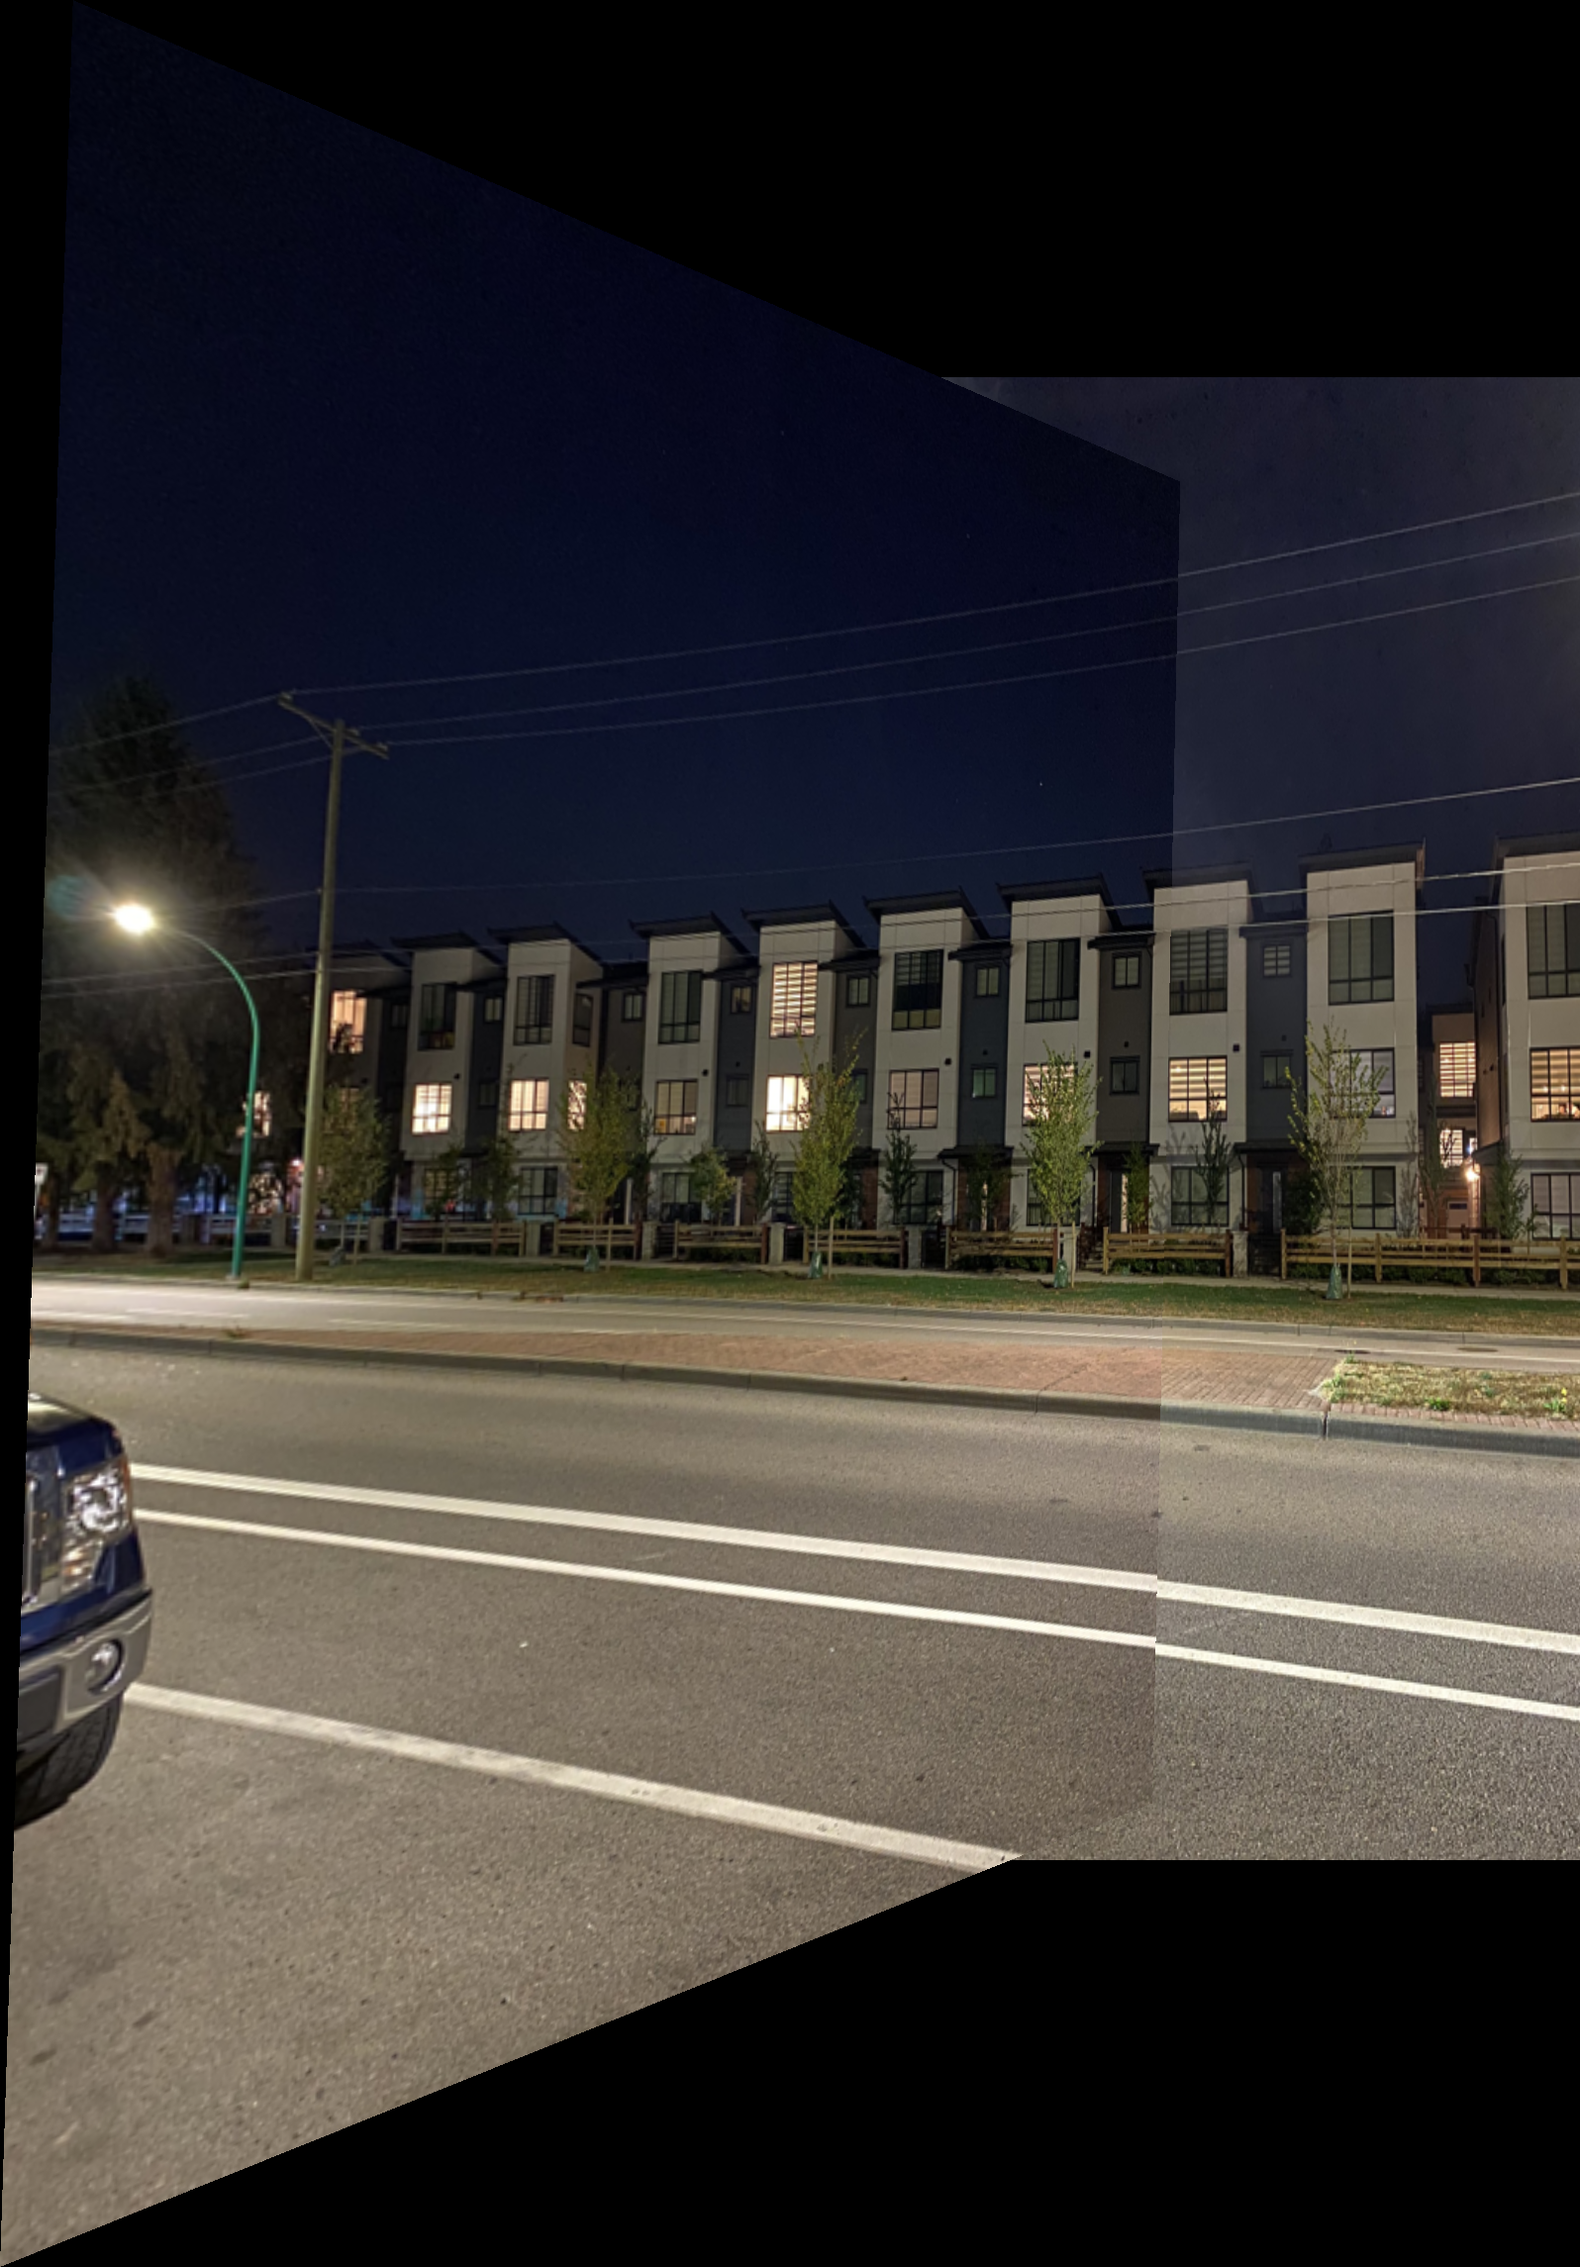
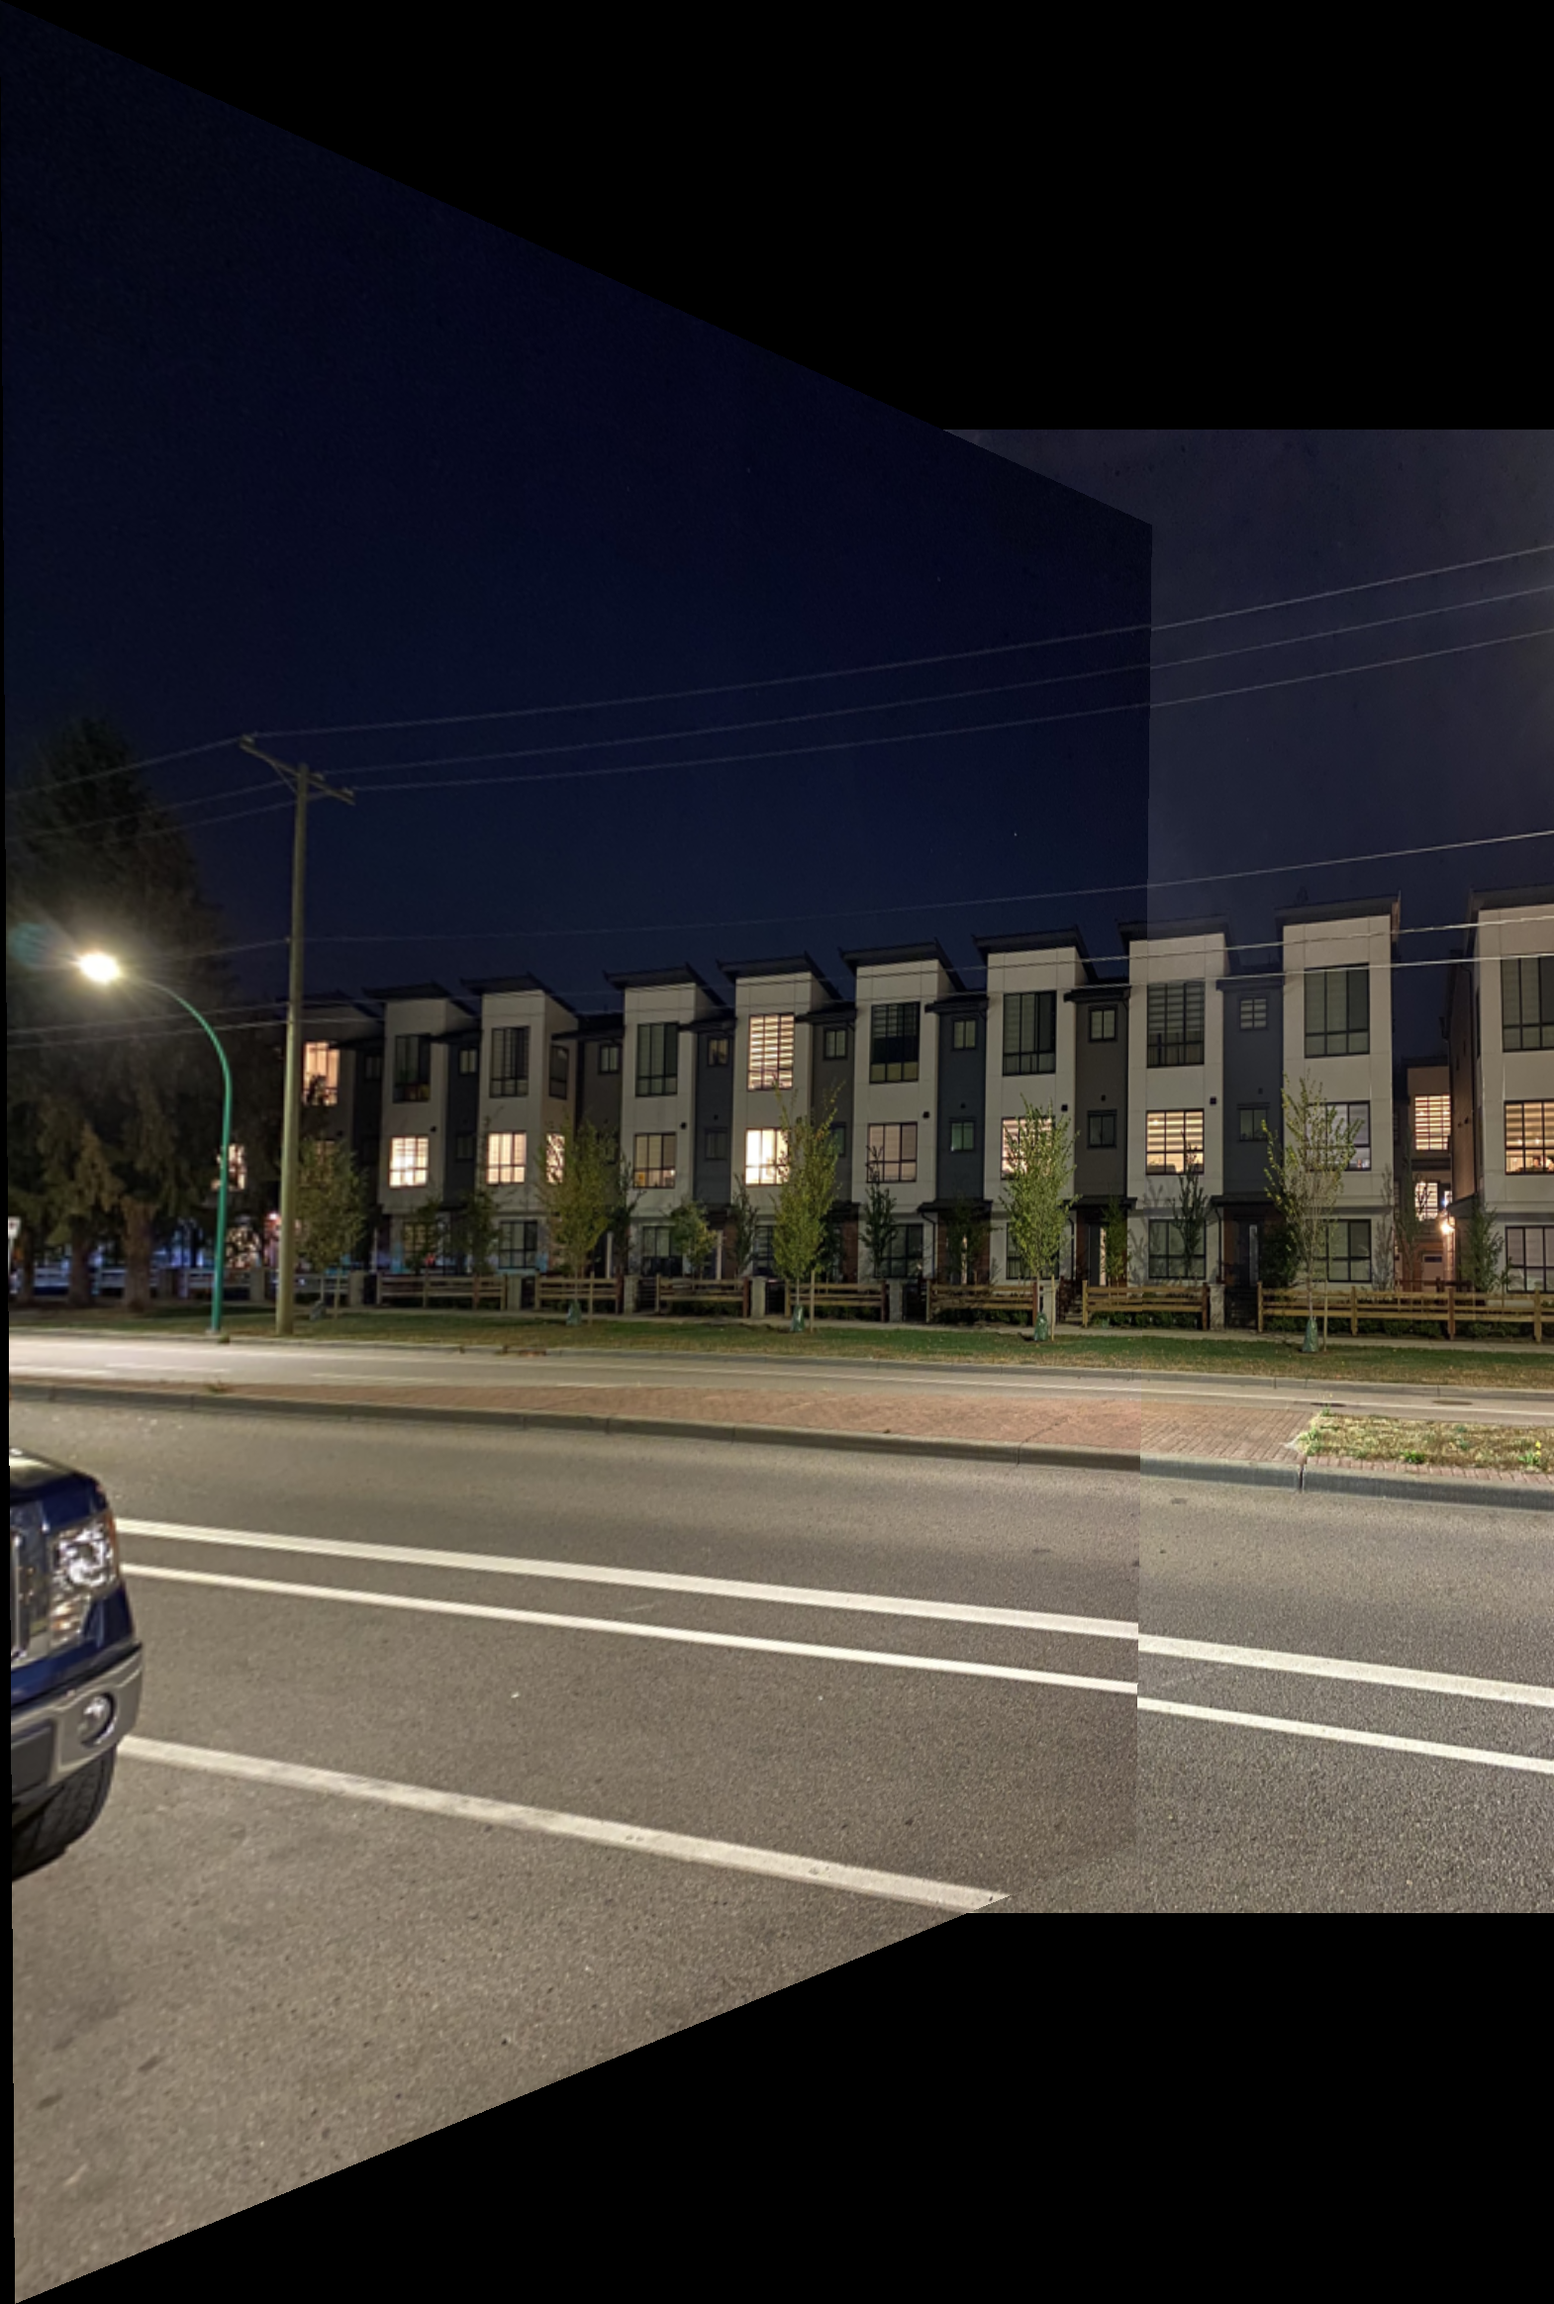
FAST RANSAC parameters benefits from a smaller MaxDistance parameter than FASTR RANSAC parameters

diff --git a/A2/A2.m b/A2/A2.m
@@ -269,28 +269,28 @@
 %Part 5
     %fast
         %S1
-        [~, S1inlierIdx] = estimateGeometricTransform2D(S1matchedPoints1R,S1matchedPoints2R,'projective', MaxNumTrials=100000, MaxDistance = 30, Confidence = 99.9);
+        [~, S1inlierIdx] = estimateGeometricTransform2D(S1matchedPoints1R,S1matchedPoints2R,'projective', MaxNumTrials=100000, MaxDistance = 10, Confidence = 99.9);
         S1matchedPoints1R = S1matchedPoints1R(S1inlierIdx,:);
         S1matchedPoints2R  = S1matchedPoints2R(S1inlierIdx,:);
         ax=axes;
         showMatchedFeatures(rgb2gray(allImArr{1}),rgb2gray(allImArr{2}),S1matchedPoints1R,S1matchedPoints2R,"montag",Parent=ax);
         figure;
         %S2
-        [~, S2inlierIdx] = estimateGeometricTransform2D(S2matchedPoints1R,S2matchedPoints2R,'projective', MaxNumTrials=100000, MaxDistance = 30, Confidence = 99.9);
+        [~, S2inlierIdx] = estimateGeometricTransform2D(S2matchedPoints1R,S2matchedPoints2R,'projective', MaxNumTrials=100000, MaxDistance = 10, Confidence = 99.9);
         S2matchedPoints1R = S2matchedPoints1R(S2inlierIdx,:);
         S2matchedPoints2R  = S2matchedPoints2R(S2inlierIdx,:);
         ax=axes;
         showMatchedFeatures(rgb2gray(allImArr{3}),rgb2gray(allImArr{4}),S2matchedPoints1R,S2matchedPoints2R,"montag",Parent=ax);
         figure;
         %S3 
-        [~, S3inlierIdx] = estimateGeometricTransform2D(S3matchedPoints1R,S3matchedPoints2R,'projective', MaxNumTrials=100000, MaxDistance = 30, Confidence = 99.9);
+        [~, S3inlierIdx] = estimateGeometricTransform2D(S3matchedPoints1R,S3matchedPoints2R,'projective', MaxNumTrials=100000, MaxDistance = 10, Confidence = 99.9);
         S3matchedPoints1R = S3matchedPoints1R(S3inlierIdx,:);
         S3matchedPoints2R  = S3matchedPoints2R(S3inlierIdx,:);
         ax=axes;
         showMatchedFeatures(rgb2gray(allImArr{7}),rgb2gray(allImArr{8}),S3matchedPoints1R,S3matchedPoints2R,"montag",Parent=ax);
         figure;
         %S4
-        [~, S4inlierIdx] = estimateGeometricTransform2D(S4matchedPoints1R,S4matchedPoints2R,'projective', MaxNumTrials=100000, MaxDistance = 30, Confidence = 99.9);
+        [~, S4inlierIdx] = estimateGeometricTransform2D(S4matchedPoints1R,S4matchedPoints2R,'projective', MaxNumTrials=100000, MaxDistance = 10, Confidence = 99.9);
         S4matchedPoints1R = S4matchedPoints1R(S4inlierIdx,:);
         S4matchedPoints2R  = S4matchedPoints2R(S4inlierIdx,:);
         ax=axes;
